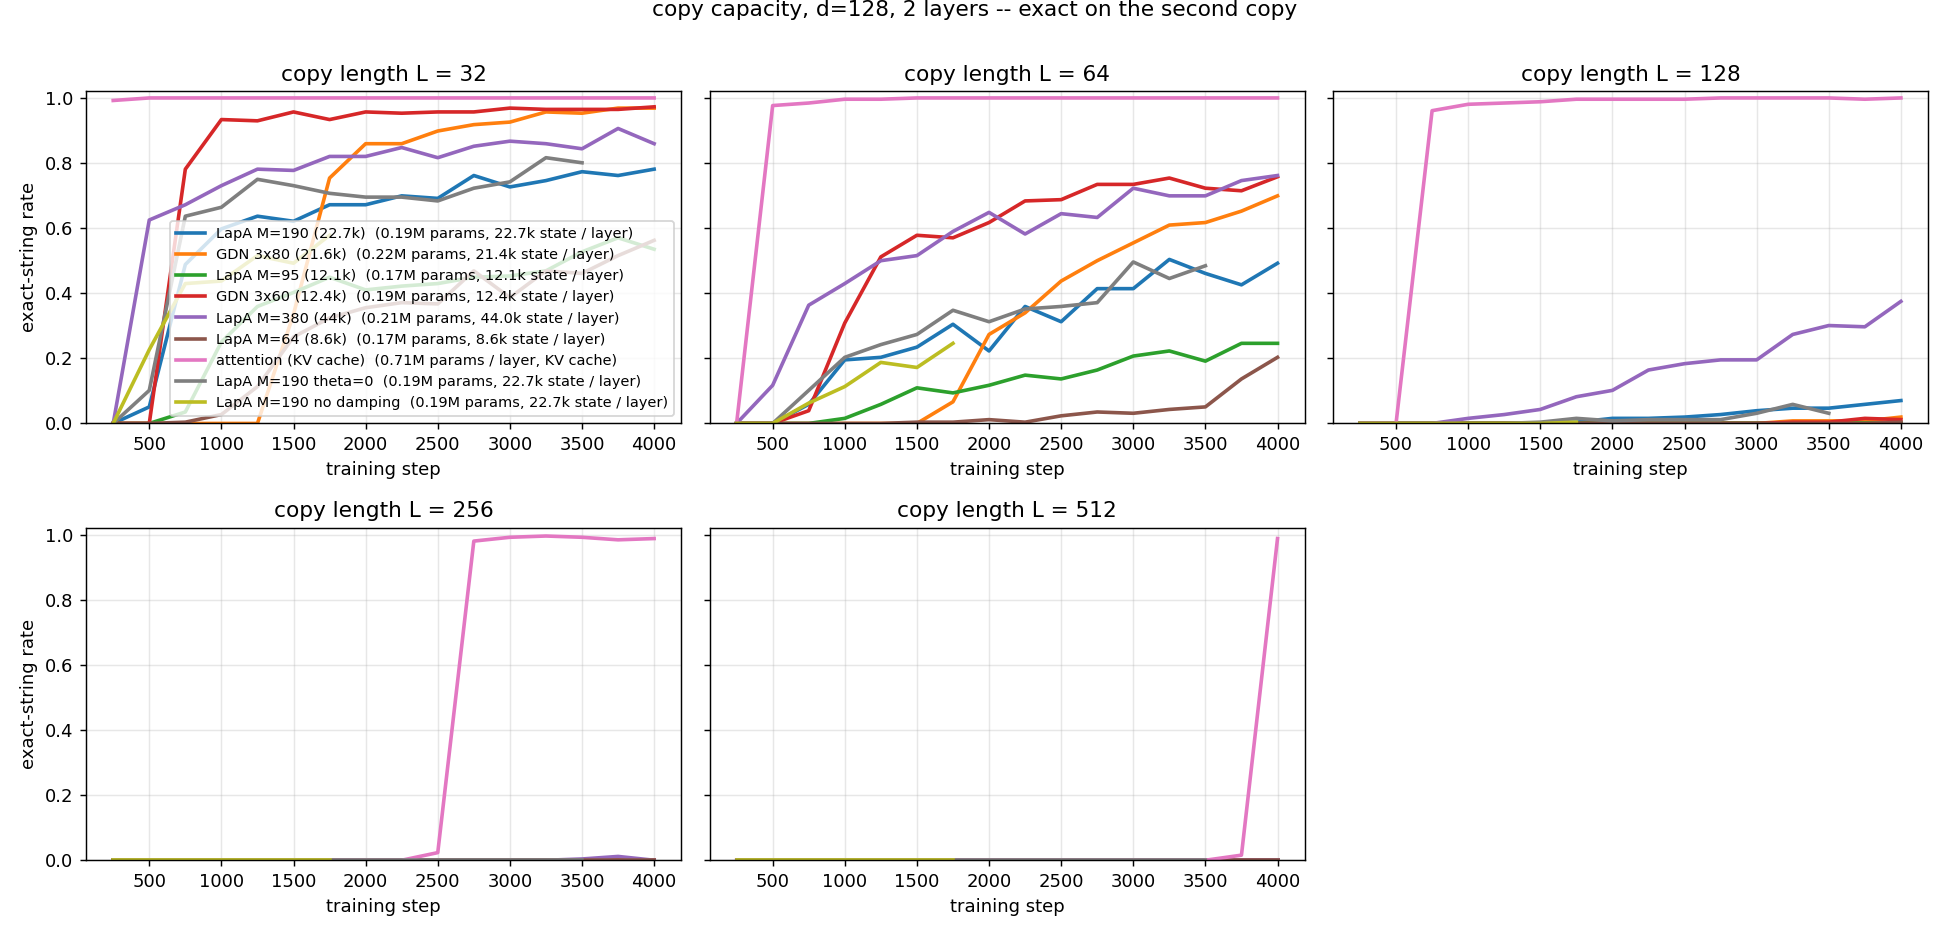
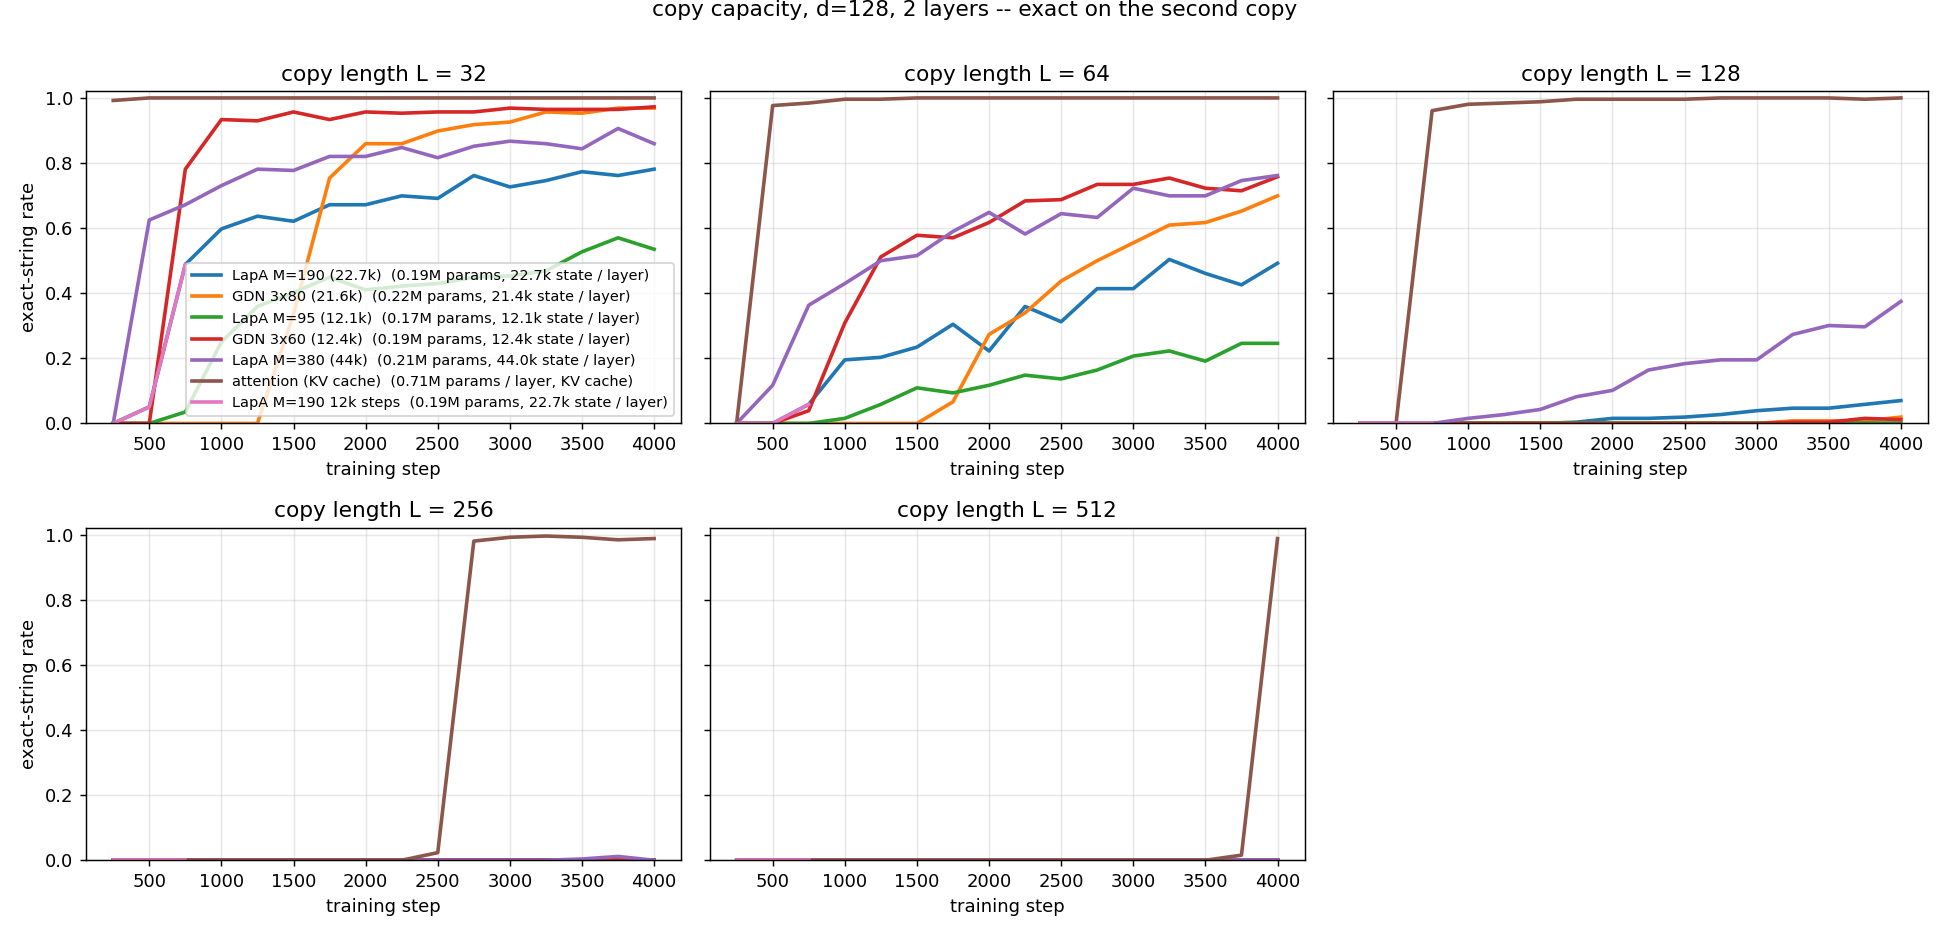
copy plot --hide; reorder queue: window-64 arms then delta-rule control; 12k-step arm dropped

diff --git a/lapa/benchmarks/copy.py b/lapa/benchmarks/copy.py
@@ -171,11 +171,12 @@ def plot(a):
     import os
 
     stem, ext = os.path.splitext(a.out)
+    hide = [h.strip() for h in a.hide.split(",") if h.strip()]
     for metric, out in (("acc", a.out), ("exact", f"{stem}_exact{ext}")):
-        _plot_one(a.log, metric, out)
+        _plot_one(a.log, metric, out, hide)
 
 
-def _plot_one(log, metric, out):
+def _plot_one(log, metric, out, hide=()):
     import collections
     import matplotlib
 
@@ -183,6 +184,7 @@ def _plot_one(log, metric, out):
     import matplotlib.pyplot as plt
 
     recs = [json.loads(l) for l in open(log)]
+    recs = [r for r in recs if not any(h in r["label"] for h in hide)]
     lengths = sorted({int(k) for r in recs for k in r["acc"]})
     arms = collections.OrderedDict()
     for r in recs:
@@ -266,6 +268,7 @@ def main(argv=None):
     pl.add_argument("log")
     pl.add_argument("--out", default="plot/copy.png", help="token-accuracy figure; the exact-string figure is written next to it as *_exact")
     pl.add_argument("--exact", action="store_true", help="no-op, kept so older scripts still run (both figures are always written)")
+    pl.add_argument("--hide", default="", help="comma-separated label substrings to leave out of the figures")
     a = p.parse_args(argv)
     (run if a.cmd == "run" else plot)(a)
     return 0
